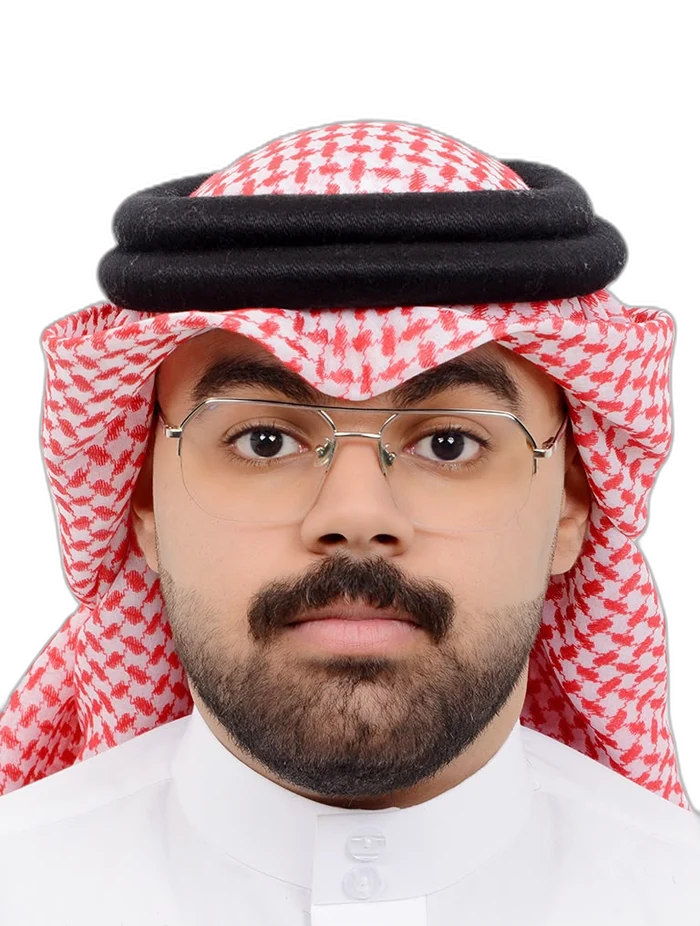
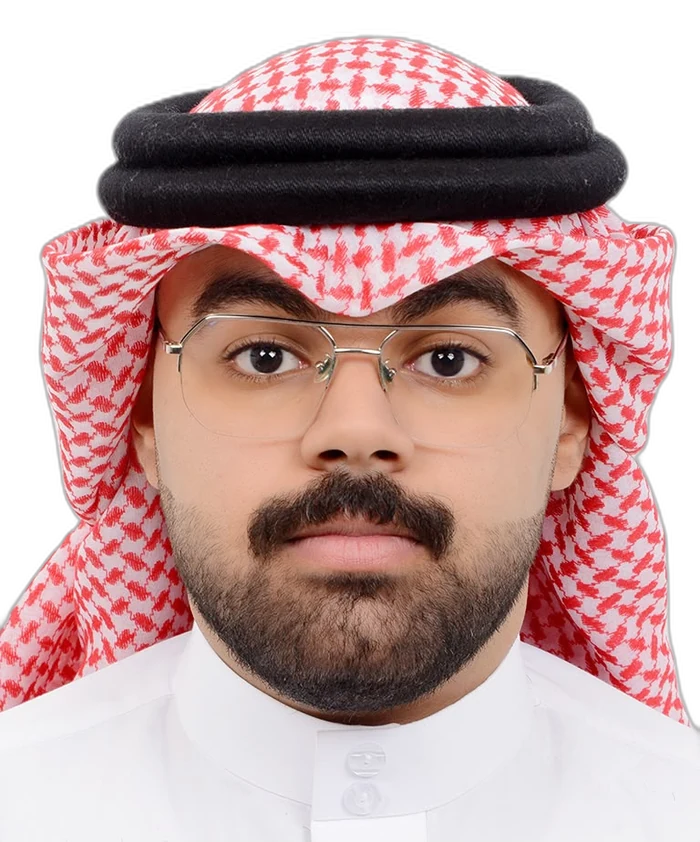
Redesign headshot frame as a console card, fix awkward image gaps
The square frame with object-contain left uneven transparent gaps —
the cutout had 112px of dead space above the head plus letterboxing
on the sides since the subject is portrait-shaped, not square.
Recropped the source to trim that headroom and reshaped the frame to
match the subject's natural ~5:6 ratio with object-cover, so the
photo fills edge to edge. Swapped the corner-bracket frame for a
console-bar header (terminal icon + "operator.jpg" + live status
dot), matching the same pattern used on CodeSnippet elsewhere on the
site instead of a one-off design.

diff --git a/src/components/ui/HeadshotSlot.jsx b/src/components/ui/HeadshotSlot.jsx
@@ -1,18 +1,22 @@
+import { Terminal } from 'lucide-react';
 import pfp from '../../assets/pfp-nobg.webp';
 
 export default function HeadshotSlot() {
   return (
-    <div className="group relative aspect-square w-full max-w-[220px] self-end border border-base-border/70 bg-base-surface/15">
-      <span className="pointer-events-none absolute left-1.5 top-1.5 z-10 h-3 w-3 border-l border-t border-amber/60" />
-      <span className="pointer-events-none absolute right-1.5 top-1.5 z-10 h-3 w-3 border-r border-t border-amber/60" />
-      <span className="pointer-events-none absolute bottom-1.5 left-1.5 z-10 h-3 w-3 border-b border-l border-amber/60" />
-      <span className="pointer-events-none absolute bottom-1.5 right-1.5 z-10 h-3 w-3 border-b border-r border-amber/60" />
+    <div className="group w-full max-w-[220px] self-end border border-base-border/70 bg-base-surface/20">
+      <div className="flex items-center justify-between border-b border-base-border/70 px-2.5 py-1.5">
+        <div className="flex items-center gap-1.5">
+          <Terminal size={11} className="text-amber" />
+          <span className="font-mono text-[10px] text-text-dim">operator.jpg</span>
+        </div>
+        <span className="h-1.5 w-1.5 animate-pulse-slow rounded-full bg-ok" />
+      </div>
 
-      <div className="relative h-full w-full overflow-hidden">
+      <div className="relative aspect-[5/6] w-full overflow-hidden">
         <img
           src={pfp}
           alt="Abdulla Alasmawi"
-          className="h-full w-full object-contain p-3 transition-transform duration-500 ease-out group-hover:scale-[1.04]"
+          className="h-full w-full object-cover object-top transition-transform duration-500 ease-out group-hover:scale-[1.04]"
         />
         <div className="pointer-events-none absolute inset-0 -translate-x-full skew-x-[-20deg] bg-gradient-to-r from-transparent via-white/25 to-transparent transition-transform duration-700 ease-out group-hover:translate-x-full" />
       </div>
